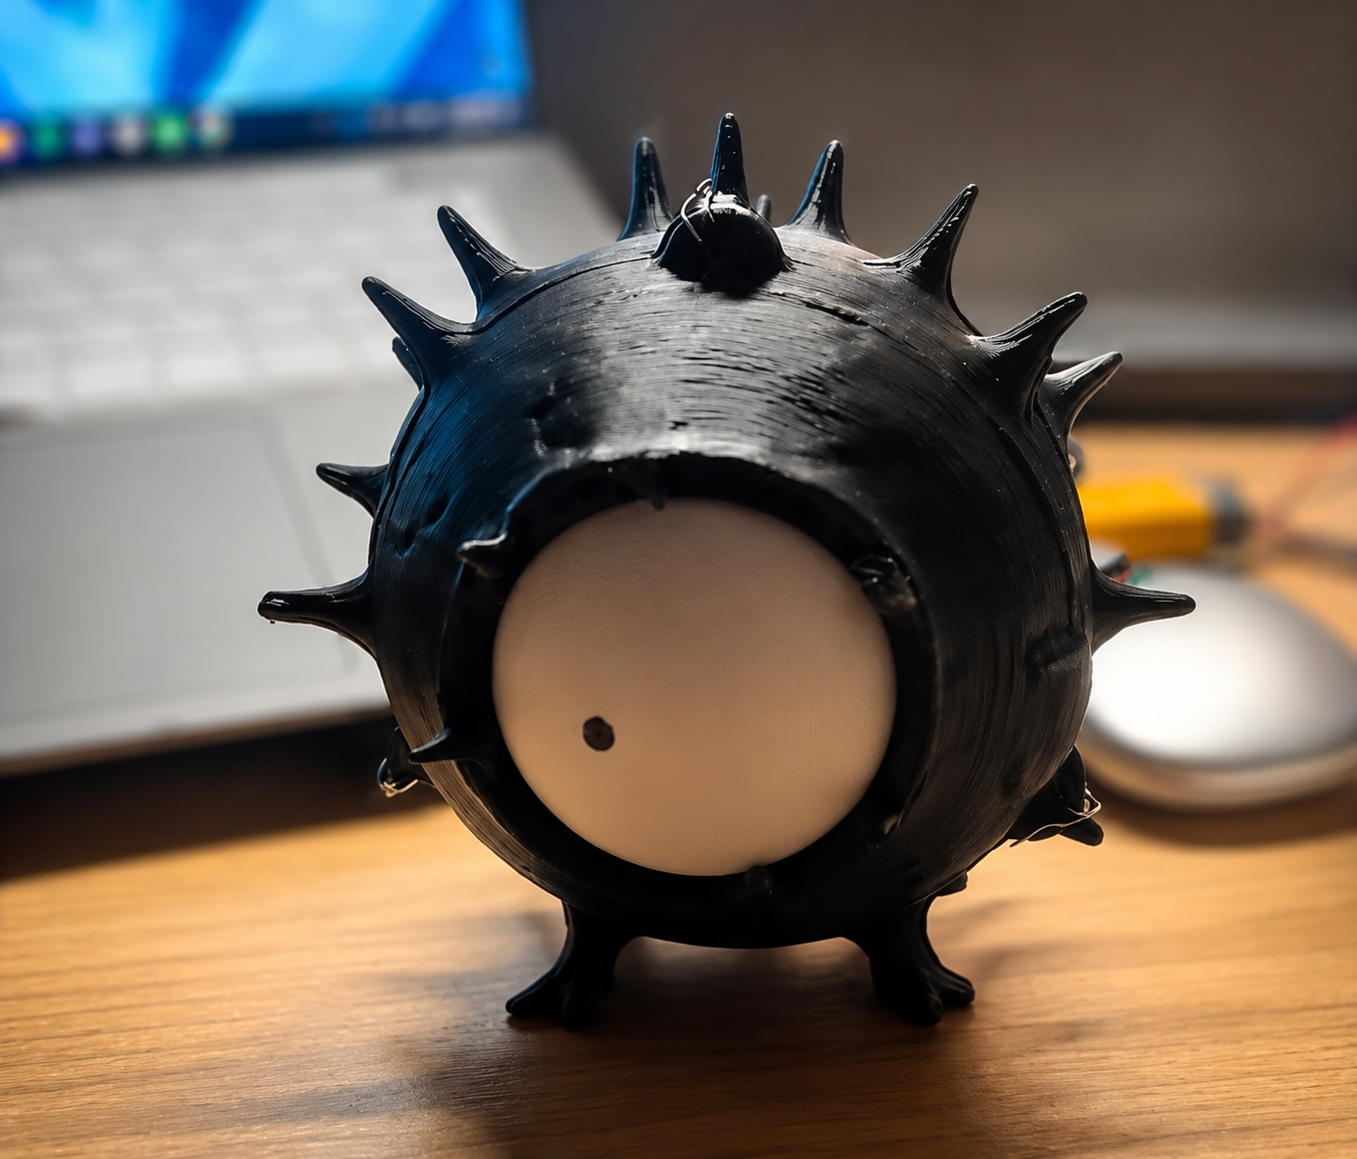
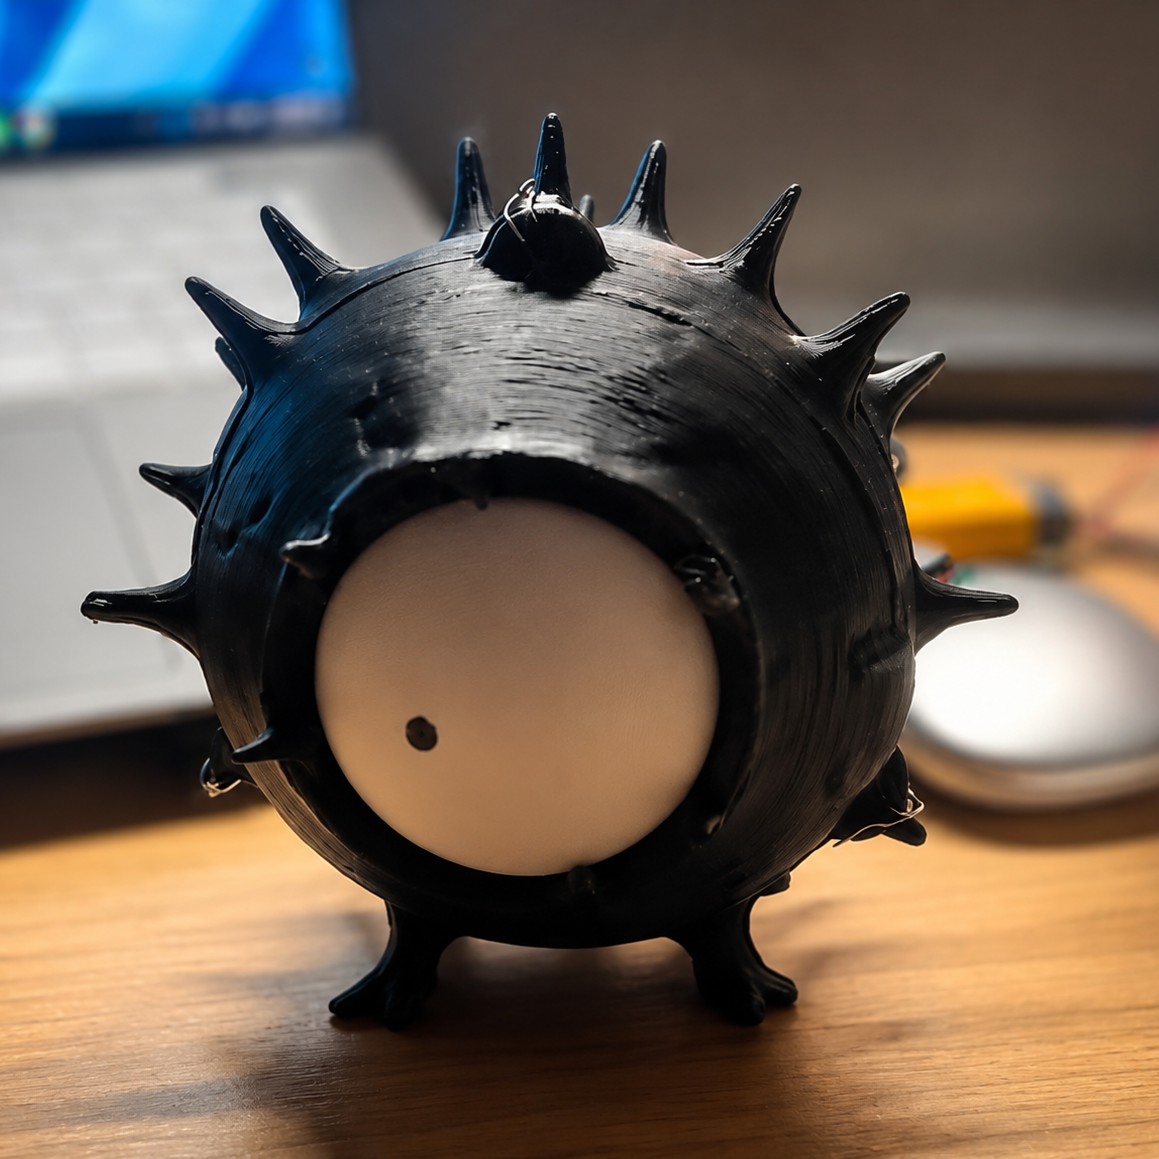
Added Hella Pics

diff --git a/index.html b/index.html
@@ -291,7 +291,7 @@
               <ul>
                 <li>Mentored international, first-year, and fin-aid undergraduates through academic, social, and personal transition to Northwestern.</li>
                 <li>Built community through Atlas programming, Chai & Chat events and mentor–mentee meetups.</li>
-                <li>Created the Atlas Mentor handout to support efficient,clear, and consistent mentorship.</li>
+                <li>Created the Atlas Mentor handout to support efficient, clear, and consistent mentorship.</li>
               </ul>
             </div><!-- End Resume Item -->
 
@@ -386,7 +386,7 @@
       <!-- Section Title -->
       <div class="container section-title" data-aos="fade-up">
         <h2>Portfolio</h2>
-        <p>Necessitatibus eius consequatur ex aliquid fuga eum quidem sint consectetur velit</p>
+        <p>A mix of personal builds, research fixtures, fabrication work, and repairs that reflect how I learn through making, testing, and fixing real things.</p>
       </div><!-- End Section Title -->
 
       <div class="container">
@@ -395,130 +395,131 @@
 
           <ul class="portfolio-filters isotope-filters" data-aos="fade-up" data-aos-delay="100">
             <li data-filter="*" class="filter-active">All</li>
-            <li data-filter=".filter-app">App</li>
-            <li data-filter=".filter-product">Product</li>
-            <li data-filter=".filter-branding">Branding</li>
-            <li data-filter=".filter-books">Books</li>
+            <li data-filter=".filter-app">Machines</li>
+            <li data-filter=".filter-model">Models</li>
+            <li data-filter=".filter-repairs">Repairs</li>
+            <li data-filter=".filter-branding">Misc.</li>
+
           </ul><!-- End Portfolio Filters -->
 
           <div class="row gy-4 isotope-container" data-aos="fade-up" data-aos-delay="200">
 
             <div class="col-lg-4 col-md-6 portfolio-item isotope-item filter-app">
-              <img src="assets/img/portfolio/app-1.jpg" class="img-fluid" alt="">
+              <img src="assets/img/portfolio/machines1.png" class="img-fluid" alt="">
               <div class="portfolio-info">
-                <h4>App 1</h4>
+                <h4>Machine 1</h4>
                 <p>Lorem ipsum, dolor sit amet consectetur</p>
-                <a href="assets/img/portfolio/app-1.jpg" title="App 1" data-gallery="portfolio-gallery-app" class="glightbox preview-link"><i class="bi bi-zoom-in"></i></a>
+                <a href="assets/img/portfolio/machines1.png" title="App 1" data-gallery="portfolio-gallery-app" class="glightbox preview-link"><i class="bi bi-zoom-in"></i></a>
                 <a href="portfolio-details.html" title="More Details" class="details-link"><i class="bi bi-link-45deg"></i></a>
               </div>
             </div><!-- End Portfolio Item -->
 
-            <div class="col-lg-4 col-md-6 portfolio-item isotope-item filter-product">
-              <img src="assets/img/portfolio/product-1.jpg" class="img-fluid" alt="">
+            <div class="col-lg-4 col-md-6 portfolio-item isotope-item filter-model">
+              <img src="assets/img/portfolio/cad1.png" class="img-fluid" alt="">
               <div class="portfolio-info">
-                <h4>Product 1</h4>
+                <h4>Model 1</h4>
                 <p>Lorem ipsum, dolor sit amet consectetur</p>
-                <a href="assets/img/portfolio/product-1.jpg" title="Product 1" data-gallery="portfolio-gallery-product" class="glightbox preview-link"><i class="bi bi-zoom-in"></i></a>
+                <a href="assets/img/portfolio/cad1.png" title="model 1" data-gallery="portfolio-gallery-model" class="glightbox preview-link"><i class="bi bi-zoom-in"></i></a>
                 <a href="portfolio-details.html" title="More Details" class="details-link"><i class="bi bi-link-45deg"></i></a>
               </div>
             </div><!-- End Portfolio Item -->
 
             <div class="col-lg-4 col-md-6 portfolio-item isotope-item filter-branding">
-              <img src="assets/img/portfolio/branding-1.jpg" class="img-fluid" alt="">
+              <img src="assets/img/portfolio/misc1.png" class="img-fluid" alt="">
               <div class="portfolio-info">
-                <h4>Branding 1</h4>
+                <h4>Misc 1</h4>
                 <p>Lorem ipsum, dolor sit amet consectetur</p>
-                <a href="assets/img/portfolio/branding-1.jpg" title="Branding 1" data-gallery="portfolio-gallery-branding" class="glightbox preview-link"><i class="bi bi-zoom-in"></i></a>
+                <a href="assets/img/portfolio/misc1.png" title="Branding 1" data-gallery="portfolio-gallery-branding" class="glightbox preview-link"><i class="bi bi-zoom-in"></i></a>
                 <a href="portfolio-details.html" title="More Details" class="details-link"><i class="bi bi-link-45deg"></i></a>
               </div>
             </div><!-- End Portfolio Item -->
 
-            <div class="col-lg-4 col-md-6 portfolio-item isotope-item filter-books">
-              <img src="assets/img/portfolio/books-1.jpg" class="img-fluid" alt="">
+            <div class="col-lg-4 col-md-6 portfolio-item isotope-item filter-repairs">
+              <img src="assets/img/portfolio/repairs-1.jpg" class="img-fluid" alt="">
               <div class="portfolio-info">
-                <h4>Books 1</h4>
+                <h4>Repairs 1</h4>
                 <p>Lorem ipsum, dolor sit amet consectetur</p>
-                <a href="assets/img/portfolio/books-1.jpg" title="Branding 1" data-gallery="portfolio-gallery-book" class="glightbox preview-link"><i class="bi bi-zoom-in"></i></a>
+                <a href="assets/img/portfolio/repairs-1.jpg" title="Branding 1" data-gallery="portfolio-gallery-book" class="glightbox preview-link"><i class="bi bi-zoom-in"></i></a>
                 <a href="portfolio-details.html" title="More Details" class="details-link"><i class="bi bi-link-45deg"></i></a>
               </div>
             </div><!-- End Portfolio Item -->
 
             <div class="col-lg-4 col-md-6 portfolio-item isotope-item filter-app">
-              <img src="assets/img/portfolio/app-2.jpg" class="img-fluid" alt="">
+              <img src="assets/img/portfolio/machines2.png" class="img-fluid" alt="">
               <div class="portfolio-info">
-                <h4>App 2</h4>
+                <h4>Machine 2</h4>
                 <p>Lorem ipsum, dolor sit amet consectetur</p>
-                <a href="assets/img/portfolio/app-2.jpg" title="App 2" data-gallery="portfolio-gallery-app" class="glightbox preview-link"><i class="bi bi-zoom-in"></i></a>
+                <a href="assets/img/portfolio/machines2.png" title="App 2" data-gallery="portfolio-gallery-app" class="glightbox preview-link"><i class="bi bi-zoom-in"></i></a>
                 <a href="portfolio-details.html" title="More Details" class="details-link"><i class="bi bi-link-45deg"></i></a>
               </div>
             </div><!-- End Portfolio Item -->
 
-            <div class="col-lg-4 col-md-6 portfolio-item isotope-item filter-product">
-              <img src="assets/img/portfolio/product-2.jpg" class="img-fluid" alt="">
+            <div class="col-lg-4 col-md-6 portfolio-item isotope-item filter-model">
+              <img src="assets/img/portfolio/cad2.png" class="img-fluid" alt="">
               <div class="portfolio-info">
-                <h4>Product 2</h4>
+                <h4>Model 2</h4>
                 <p>Lorem ipsum, dolor sit amet consectetur</p>
-                <a href="assets/img/portfolio/product-2.jpg" title="Product 2" data-gallery="portfolio-gallery-product" class="glightbox preview-link"><i class="bi bi-zoom-in"></i></a>
+                <a href="assets/img/portfolio/cad2.png" title="model 2" data-gallery="portfolio-gallery-model" class="glightbox preview-link"><i class="bi bi-zoom-in"></i></a>
                 <a href="portfolio-details.html" title="More Details" class="details-link"><i class="bi bi-link-45deg"></i></a>
               </div>
             </div><!-- End Portfolio Item -->
 
             <div class="col-lg-4 col-md-6 portfolio-item isotope-item filter-branding">
-              <img src="assets/img/portfolio/branding-2.jpg" class="img-fluid" alt="">
+              <img src="assets/img/portfolio/misc2.png" class="img-fluid" alt="">
               <div class="portfolio-info">
-                <h4>Branding 2</h4>
+                <h4>Misc 2</h4>
                 <p>Lorem ipsum, dolor sit amet consectetur</p>
-                <a href="assets/img/portfolio/branding-2.jpg" title="Branding 2" data-gallery="portfolio-gallery-branding" class="glightbox preview-link"><i class="bi bi-zoom-in"></i></a>
+                <a href="assets/img/portfolio/misc2.png" title="Branding 2" data-gallery="portfolio-gallery-branding" class="glightbox preview-link"><i class="bi bi-zoom-in"></i></a>
                 <a href="portfolio-details.html" title="More Details" class="details-link"><i class="bi bi-link-45deg"></i></a>
               </div>
             </div><!-- End Portfolio Item -->
 
-            <div class="col-lg-4 col-md-6 portfolio-item isotope-item filter-books">
-              <img src="assets/img/portfolio/books-2.jpg" class="img-fluid" alt="">
+            <div class="col-lg-4 col-md-6 portfolio-item isotope-item filter-repairs">
+              <img src="assets/img/portfolio/repairs-2.jpg" class="img-fluid" alt="">
               <div class="portfolio-info">
-                <h4>Books 2</h4>
+                <h4>Repairs 2</h4>
                 <p>Lorem ipsum, dolor sit amet consectetur</p>
-                <a href="assets/img/portfolio/books-2.jpg" title="Branding 2" data-gallery="portfolio-gallery-book" class="glightbox preview-link"><i class="bi bi-zoom-in"></i></a>
+                <a href="assets/img/portfolio/repairs-2.jpg" title="Branding 2" data-gallery="portfolio-gallery-book" class="glightbox preview-link"><i class="bi bi-zoom-in"></i></a>
                 <a href="portfolio-details.html" title="More Details" class="details-link"><i class="bi bi-link-45deg"></i></a>
               </div>
             </div><!-- End Portfolio Item -->
 
             <div class="col-lg-4 col-md-6 portfolio-item isotope-item filter-app">
-              <img src="assets/img/portfolio/app-3.jpg" class="img-fluid" alt="">
+              <img src="assets/img/portfolio/machines2.png" class="img-fluid" alt="">
               <div class="portfolio-info">
-                <h4>App 3</h4>
+                <h4>Machine 3</h4>
                 <p>Lorem ipsum, dolor sit amet consectetur</p>
-                <a href="assets/img/portfolio/app-3.jpg" title="App 3" data-gallery="portfolio-gallery-app" class="glightbox preview-link"><i class="bi bi-zoom-in"></i></a>
+                <a href="assets/img/portfolio/machines2.png" title="App 3" data-gallery="portfolio-gallery-app" class="glightbox preview-link"><i class="bi bi-zoom-in"></i></a>
                 <a href="portfolio-details.html" title="More Details" class="details-link"><i class="bi bi-link-45deg"></i></a>
               </div>
             </div><!-- End Portfolio Item -->
 
-            <div class="col-lg-4 col-md-6 portfolio-item isotope-item filter-product">
-              <img src="assets/img/portfolio/product-3.jpg" class="img-fluid" alt="">
+            <div class="col-lg-4 col-md-6 portfolio-item isotope-item filter-model">
+              <img src="assets/img/portfolio/cad3.png" class="img-fluid" alt="">
               <div class="portfolio-info">
-                <h4>Product 3</h4>
+                <h4>Model 3</h4>
                 <p>Lorem ipsum, dolor sit amet consectetur</p>
-                <a href="assets/img/portfolio/product-3.jpg" title="Product 3" data-gallery="portfolio-gallery-product" class="glightbox preview-link"><i class="bi bi-zoom-in"></i></a>
+                <a href="assets/img/portfolio/cad3.png" title="model 3" data-gallery="portfolio-gallery-model" class="glightbox preview-link"><i class="bi bi-zoom-in"></i></a>
                 <a href="portfolio-details.html" title="More Details" class="details-link"><i class="bi bi-link-45deg"></i></a>
               </div>
             </div><!-- End Portfolio Item -->
 
             <div class="col-lg-4 col-md-6 portfolio-item isotope-item filter-branding">
-              <img src="assets/img/portfolio/branding-3.jpg" class="img-fluid" alt="">
+              <img src="assets/img/portfolio/misc3.png" class="img-fluid" alt="">
               <div class="portfolio-info">
-                <h4>Branding 3</h4>
+                <h4>Misc 3</h4>
                 <p>Lorem ipsum, dolor sit amet consectetur</p>
-                <a href="assets/img/portfolio/branding-3.jpg" title="Branding 2" data-gallery="portfolio-gallery-branding" class="glightbox preview-link"><i class="bi bi-zoom-in"></i></a>
+                <a href="assets/img/portfolio/misc3.png" title="Branding 2" data-gallery="portfolio-gallery-branding" class="glightbox preview-link"><i class="bi bi-zoom-in"></i></a>
                 <a href="portfolio-details.html" title="More Details" class="details-link"><i class="bi bi-link-45deg"></i></a>
               </div>
             </div><!-- End Portfolio Item -->
 
-            <div class="col-lg-4 col-md-6 portfolio-item isotope-item filter-books">
-              <img src="assets/img/portfolio/books-3.jpg" class="img-fluid" alt="">
+            <div class="col-lg-4 col-md-6 portfolio-item isotope-item filter-repairs">
+              <img src="assets/img/portfolio/repairs-3.jpg" class="img-fluid" alt="">
               <div class="portfolio-info">
-                <h4>Books 3</h4>
+                <h4>Repairs 3</h4>
                 <p>Lorem ipsum, dolor sit amet consectetur</p>
-                <a href="assets/img/portfolio/books-3.jpg" title="Branding 3" data-gallery="portfolio-gallery-book" class="glightbox preview-link"><i class="bi bi-zoom-in"></i></a>
+                <a href="assets/img/portfolio/repairs-3.jpg" title="Branding 3" data-gallery="portfolio-gallery-book" class="glightbox preview-link"><i class="bi bi-zoom-in"></i></a>
                 <a href="portfolio-details.html" title="More Details" class="details-link"><i class="bi bi-link-45deg"></i></a>
               </div>
             </div><!-- End Portfolio Item -->